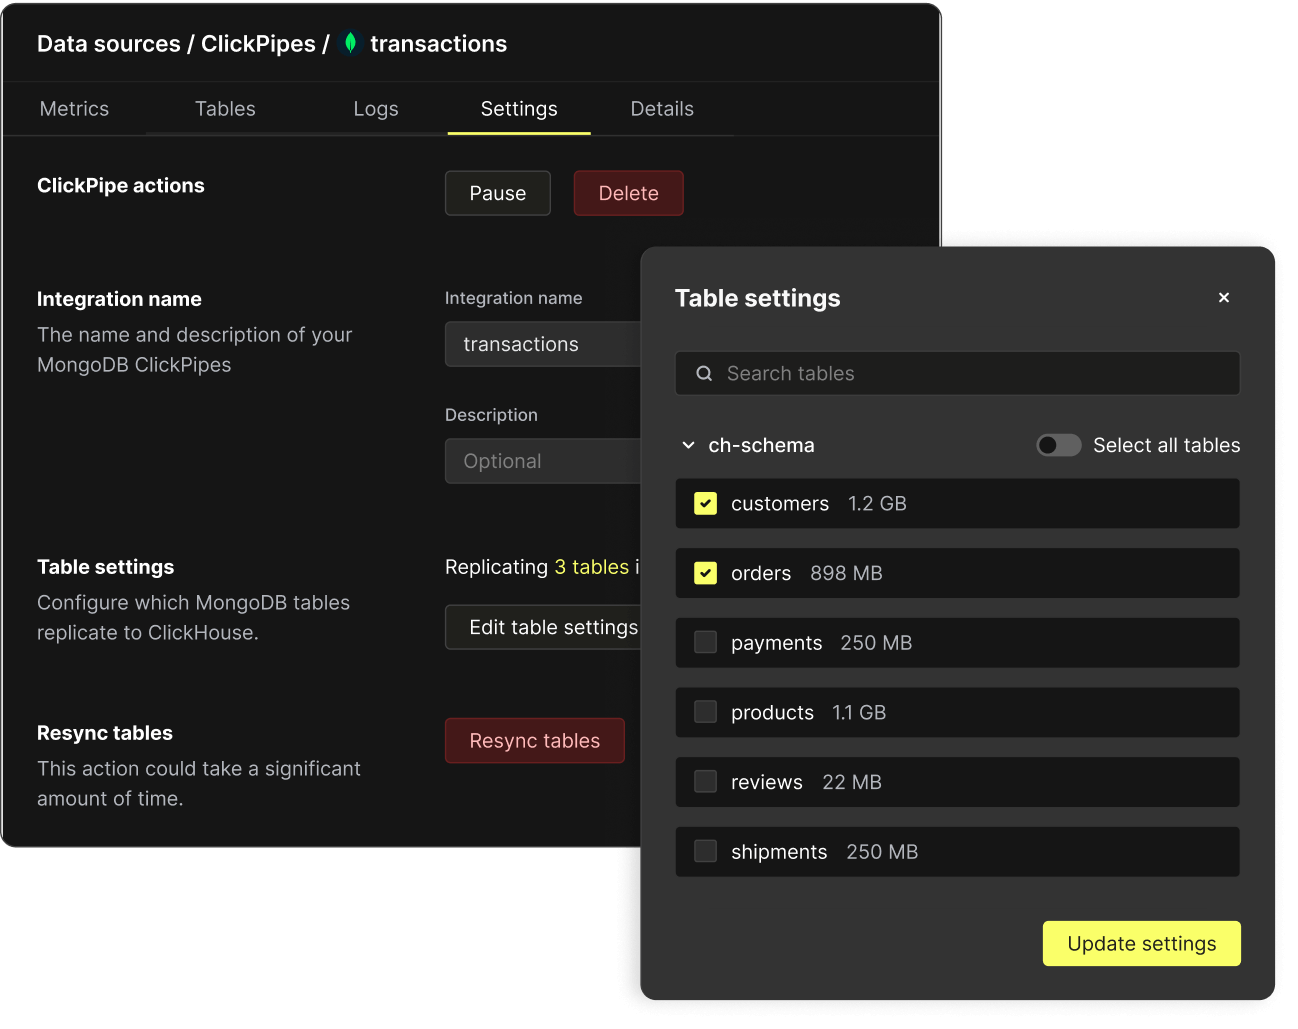
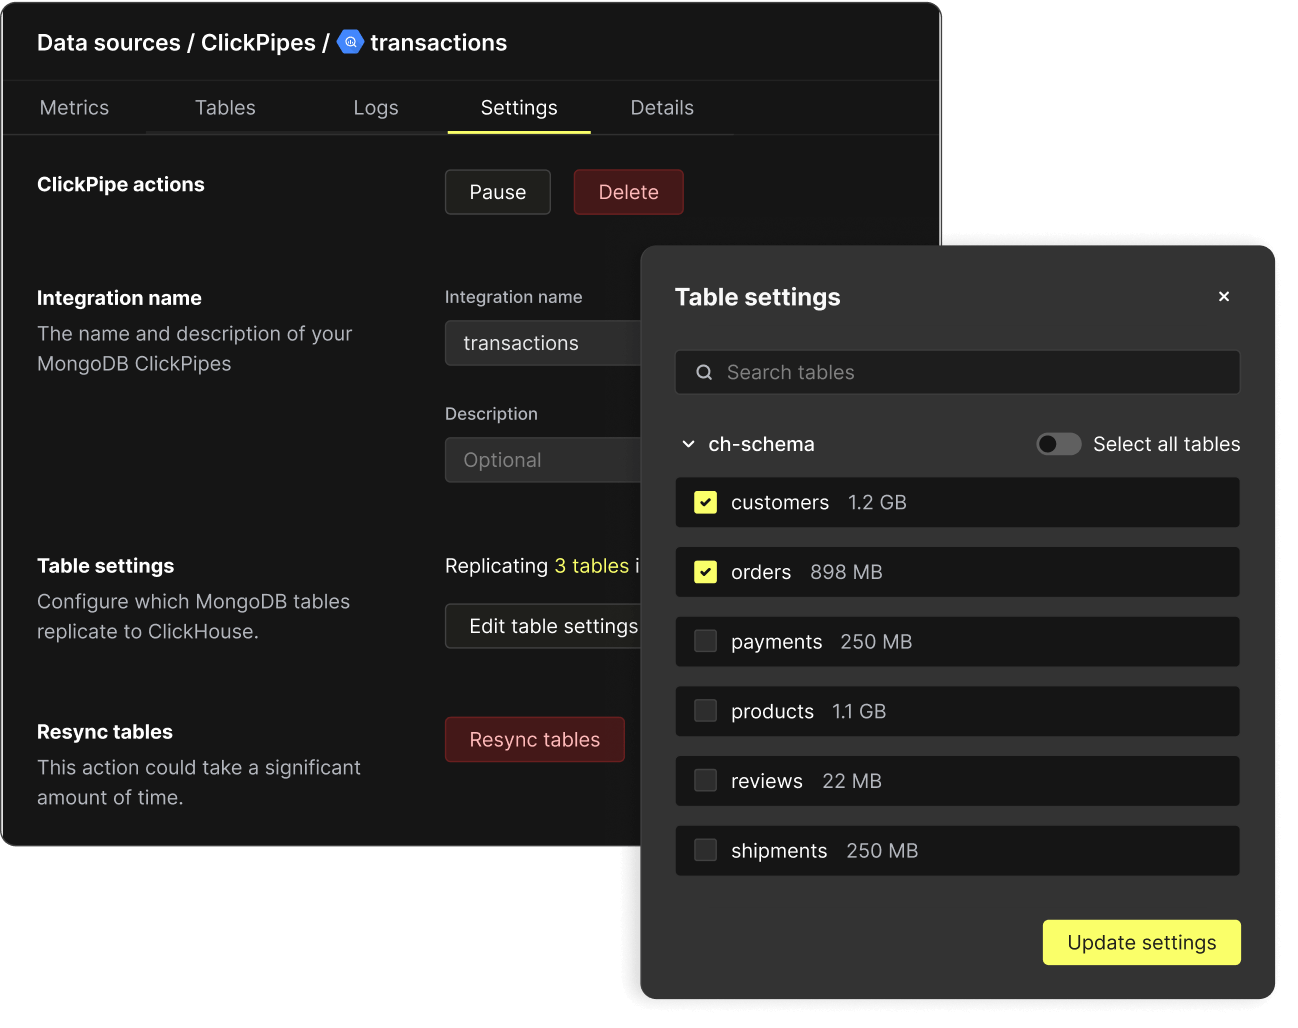
New images and form id

diff --git a/src/pages/cloud/clickpipes/bigquery-connector/index.tsx b/src/pages/cloud/clickpipes/bigquery-connector/index.tsx
@@ -1,4 +1,4 @@
-import imageAddMongoSource from './assets/add-mongodb-source.png'
+import imageAddBigquerySource from './assets/add-bigquery-source.png'
 import imageCustomizeIncomingData from './assets/customize-incoming-data.png'
 import imageEditPipeInPlace from './assets/edit-pipe-in-place.png'
 import logoBigQuery from './assets/logo-bigquery.svg'
@@ -129,7 +129,7 @@ export default function Page({ headerData, footerData, seo }: CommonProps) {
             <div className='w-full lg:max-w-lg'>
               <CUICard>
                 <CUICard.Body className='p-4 lg:p-6'>
-                  <CdcWaitlistForm formId='1441' />
+                  <CdcWaitlistForm formId='1515' />
                 </CUICard.Body>
               </CUICard>
             </div>
@@ -220,7 +220,7 @@ export default function Page({ headerData, footerData, seo }: CommonProps) {
         <div className='section-container relative z-10 space-y-16 lg:space-y-28 lg:pt-6'>
           <FeatureSection
             image={{
-              src: imageAddMongoSource,
+              src: imageAddBigquerySource,
               width: 1036 / 2,
               height: 964 / 2,
               alt: 'Add BigQuery Source'
@@ -293,7 +293,7 @@ export default function Page({ headerData, footerData, seo }: CommonProps) {
               </SuiText>
             </div>
             <CUICard.Body className='p-4 lg:p-6'>
-              <CdcWaitlistForm formId='1441' />
+              <CdcWaitlistForm formId='1515' />
             </CUICard.Body>
           </CUICard>
         </div>
